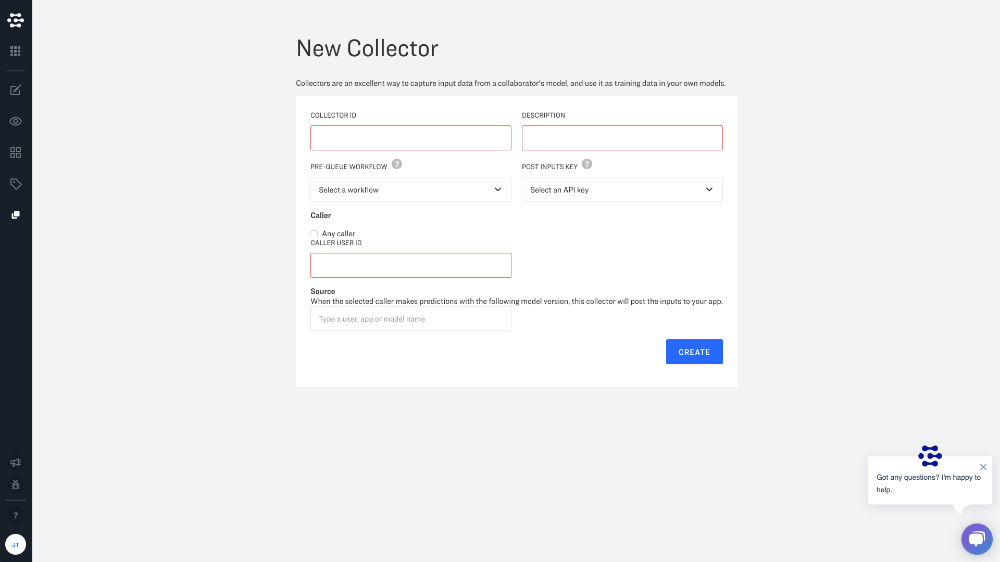
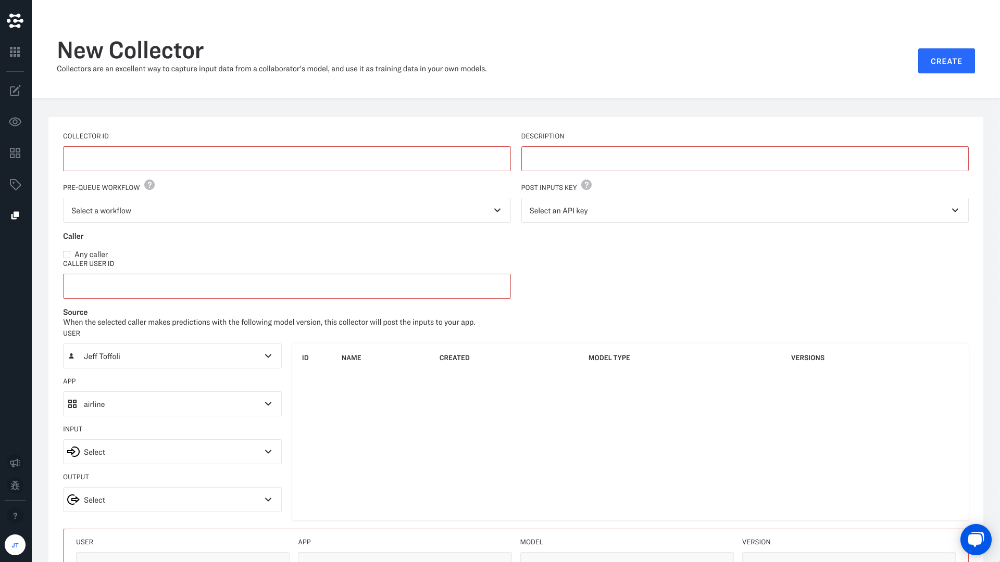
updates to images and copy

diff --git a/api-guide/collectors/collectors.md b/api-guide/collectors/collectors.md
@@ -1,24 +1,47 @@
 # Collectors
 
-The collector takes several parameters:
-- The collector's ID and description are of your own choosing.
-- The pre-queue workflow ID of the workflow to run inline in model predict calls.
-  It should only have very fast and light-weight models in it as it will effect the speed of the predictions being made.
-  This workflow's purpose is to filter down the inputs to queue for the collector to process.
-  The input to this workflow is going to be the OUTPUT of the model.
-  Optional, but at least one (pre-queue or post-queue) workflow ID is required.
-- The post-queue workflow ID of the workflow to run to after the collector is processing the queued input.
-  This workflow uses the original input to the model as input to the workflow so that you can run additional models as well on that input to decide whether to queue the model or not.
-  If the workflow output has any field that is non-empty then it will be passed on to POST /inputs to the destination app.
-  Optional, but at least one (pre-queue or post-queue) workflow ID is required.
-- The model ID, and its model version ID, should belong to the model from where you want to collect. When the user predicts an input against that model, the input is going to be collected.
-- The app ID and user ID where the model is located. If using a publicly available model, the model user and app ID should be `clarifai` and `main`, respectively. Otherwise the IDs should belong to the user who created the model.
-- An API key ID using which the inputs are is going to be added.
+Collectors capture input data for your app. They enable you to pipe in data from production models automatically, and are the key to unlocking many platform training capabilities like active learning. Collectors are available with Essential and Enterprise plans to help you manage data ingestion at scale.
 
-A possible pre-queue workflow would be one that does:
-1. random sampling (i.e. it collects a random subset of predicted inputs), then
-2. knowledge graph mapping from public General model concepts to a custom model, then
-2. concept thresholding.
+You can create app-level collectors to monitor specific models and specify sampling rules for triggering data ingestion.
+
+## Collector Parameters
+### Collector ID
+Give your collector a useful and descriptive name.
+
+### Description
+Provide additional details about your collector.
+
+### Pre-queue workflow
+
+In many scenarios, you will only want to ingest a sample, or subset of a given data source into your app. Pre-queue workflows allow you to pre-process your inputs so that you can sample and filter your new data before it is ever added to your app. Pre-queue workflows allow you to specify sampling rules for triggering data ingestion. Common pre-queue workflows are designed to:
+
+* Randomly sample inputs
+* Filter inputs by metadata
+* Filter inputs with a maximum probability below a given threshold
+* Filter inputs with a minimum probability above a given threshold
+* Filter specific concept probabilities above a given threshold
+* Knowledge graph mapping from public General model concepts to a custom model
+
+At least one (pre-queue or post-queue) workflow ID is required. The input to this workflow is going to be the OUTPUT of the model. We recommend that you use fast and light-weight models in it as it will effect the speed of the predictions being made.
+
+
+### Post Inputs key
+
+Select the API key that you would like to use to allow new inputs to be posted to your app. This is the post-queue workflow ID of the workflow to run to after the collector is processing the queued input. This API key must have the PostInputs scope, since it grants the collector the authority to POST inputs to your app.
+
+This workflow uses the original input to the model as input to the workflow so that you can run additional models as well on that input to decide whether to queue the model or not. If the workflow output has any field that is non-empty then it will be passed on to POST /inputs to the destination app. At least one (pre-queue or post-queue) workflow ID is required.
+
+### Caller
+
+Choose to only ingest inputs from a specified user, or anyone who posts new inputs to a model.  The user is referred to as the "caller" since they are making API calls as they post new inputs to their model. Just input the caller's user ID, or select "Any caller" to accept inputs from anyone posting new inputs to the model.
+
+
+### Source
+
+Select the model that you would like to collect from, and the collector will automatically post the new inputs to your app. Simply enter your model name, or model ID number. When the user predicts an input against this model, the input is going to be collected.
+
+The app ID and user ID where the model is located. If using a publicly available model, the model user and app ID should be `clarifai` and `main`, respectively. Otherwise the IDs should belong to the user who created the model. An API key ID using which the inputs are is going to be added.
+
 
 See also the [Auto Annotation walkthrough](https://docs.clarifai.com/api-guide/walkthroughs/auto-annotation-walkthrough).
 

diff --git a/portal-guide/collectors/collectors.md b/portal-guide/collectors/collectors.md
@@ -1,3 +1,5 @@
+# Collectors
+
 Collectors capture input data for your app. They enable you to pipe in data from production models automatically, and are the key to unlocking many platform training capabilities like active learning. Collectors are available with Essential and Enterprise plans to help you manage data ingestion at scale.
 
 You can create app-level collectors to monitor specific models and specify sampling rules for triggering data ingestion.
@@ -9,33 +11,38 @@ Collectors help you to feed your models with real-world training data. This data
 
 ![](../../images/create_new_collector.jpg)
 
+# Collectors
+
+Collectors capture input data for your app. They enable you to pipe in data from production models automatically, and are the key to unlocking many platform training capabilities like active learning. Collectors are available with Essential and Enterprise plans to help you manage data ingestion at scale.
+
+You can create app-level collectors to monitor specific models and specify sampling rules for triggering data ingestion.
+
+## Collector Parameters
 ### Collector ID
 Give your collector a useful and descriptive name.
 
 ### Description
-Provide additional details.
-
+Provide additional details about your collector.
 
 ### Pre-queue workflow
 
-Pre-queue workflows allow you to specify sampling rules for triggering data ingestion.
-
-In many scenarios, you will only want to ingest a sample, or subset of a given data source into your app. Pre-queue workflows allow you to pre-process your inputs so that you can sample and filter your new data before it is ever added to your app.
-
-Common pre-queue workflows are designed to:
+In many scenarios, you will only want to ingest a sample, or subset of a given data source into your app. Pre-queue workflows allow you to pre-process your inputs so that you can sample and filter your new data before it is ever added to your app. Pre-queue workflows allow you to specify sampling rules for triggering data ingestion. Common pre-queue workflows are designed to:
 
 * Randomly sample inputs
 * Filter inputs by metadata
 * Filter inputs with a maximum probability below a given threshold
 * Filter inputs with a minimum probability above a given threshold
 * Filter specific concept probabilities above a given threshold
+* Knowledge graph mapping from public General model concepts to a custom model
 
+At least one (pre-queue or post-queue) workflow ID is required. The input to this workflow is going to be the OUTPUT of the model. We recommend that you use fast and light-weight models in it as it will effect the speed of the predictions being made.
 
 
 ### Post Inputs key
 
-Select the API key that you would like to use to allow new inputs to be posted to your app. This API key must have the PostInputs scope, since it grants the collector the authority to POST inputs to your app.
+Select the API key that you would like to use to allow new inputs to be posted to your app. This is the post-queue workflow ID of the workflow to run to after the collector is processing the queued input. This API key must have the PostInputs scope, since it grants the collector the authority to POST inputs to your app.
 
+This workflow uses the original input to the model as input to the workflow so that you can run additional models as well on that input to decide whether to queue the model or not. If the workflow output has any field that is non-empty then it will be passed on to POST /inputs to the destination app. At least one (pre-queue or post-queue) workflow ID is required.
 
 ### Caller
 
@@ -44,4 +51,6 @@ Choose to only ingest inputs from a specified user, or anyone who posts new inpu
 
 ### Source
 
-Select the model that you would like to collect from, and the collector will automatically post the new inputs to your app. Simply enter your model name, or model ID number. You can select the model that you would like to collect from in the drop down menu.
+Select the model that you would like to collect from, and the collector will automatically post the new inputs to your app. Simply enter your model name, or model ID number. You can select the model that you would like to collect from in the drop down menu. When the user predicts an input against this model, the input is going to be collected.
+
+The app ID and user ID where the model is located. If using a publicly available model, the model user and app ID should be `clarifai` and `main`, respectively. Otherwise the IDs should belong to the user who created the model. An API key ID using which the inputs are is going to be added.

diff --git a/portal-guide/annotate/create-a-task.md b/portal-guide/annotate/create-a-task.md
@@ -2,33 +2,37 @@
 
 Tasks enable you delegate labeling jobs to your team.
 
-## Task types
+![](../../images/task_overview.jpg)
+
+## Task Name and Instructions
+
+Provide your task with a descriptive name and provide instructions for your labelers. You can even provide you labelers with a "visual dictionary" by including sample image URLs.
+
+## Task Types
 
 Choose the type of label that you would like your worker to add to your images or video. You can choose classification, bounding box detection, polygon detection label types.
 
 Please note that if you want to create a detection labeling task, you will need to select a detection model as the base workflow in your app.
 
+## Applicable Concepts
 
-## Input sources
+Concepts are the words that you are labeling your data with. Concepts can be anything you can think of, and can be written in the language of your choice. You can create concepts in Portal, or you can create them when assigning tasks. Check the "Select all concepts" box to automatically add all available concepts to your app.
+
+## Input Sources
 
 You can choose "All inputs", which will include all inputs from your dataset, or you can choose any one of your [Saved Searches](https://docs.clarifai.com/v/v6.1/portal-guide/psearch/psaved_searches).
 
 By saving your searches, you can slice and dice your dataset, and configure dynamic and static types of datasets. You can also create highly customized filters to your data, by adding metadata and searching by metadata filtering.
 
-## Applicable concepts
-
-Concepts are the words that you are labeling your data with. Concepts can be anything you can think of, and can be written in the language of your choice. You can create concepts in Portal, or you can create them when assigning tasks.
-
-
-## Worker strategy
-
-Manually assign work to a specific person, or have work randomly assigned to workers from a group of collaborators.
-
 ## Workers
 
 You can assign work to a worker, or group of workers. Simply add the worker email addresses and workers will receive an email notification and a new task will be added to their "Assigned to Me" tab.
 
-## Review strategy
+## Worker Strategy
+
+Manually assign work to a specific person, or have work randomly assigned to workers from a group of collaborators. By selecting "Full", all inputs will be assigned to each worker. By selecting "Partition" you will be able to break up your labeling task amongst your workers.
+
+## Review Strategy
 ### None
 
 All labels will be automatically marked with a "Success" status and can be immediately used to train your new model.
@@ -41,7 +45,7 @@ Labels will be marked with a "Pending Review" status until the assigned reviewer
 
 Consensus review will mark labels with "Success" status in cases where multiple reviewers provide the same label.
 
-## Sample size to select for manual review
+## Sample Size to Select for Manual Review
 
 You can choose to review all or part of a workers labels. Simply adjust the slider, and you will review a random subset of their labeled images. For example, if a worker is labeling 10,000 images, you might choose to review 1% of them for quality control.
 
@@ -49,7 +53,7 @@ You can choose to review all or part of a workers labels. Simply adjust the slid
 
 You assign reviewers by adding their email. Assigned review tasks will show up in the "For Review" tab.
 
-## Enable workflow predictions
+## Enable AI Assist
 
 Enable AI-assisted workflow predictions in your labeling project. You must first create a workflow with a custom model to enable predictions.
 

diff --git a/portal-guide/annotate/labeling-tools.md b/portal-guide/annotate/labeling-tools.md
@@ -2,6 +2,8 @@
 
 Labeler provides special tools for working with images and video.
 
+![](../../images/label_bounding_box.jpg)
+
 ## Images
 
 ### Brightness, saturation and color inversion
@@ -12,20 +14,29 @@ Labeler provides special tools for working with images and video.
 
 You can enhance the visibility of your photos with image adjustments. Image adjustments can be combined. Just click reset to return to the original version of your input.
 
-### Image Keyboard shortcuts
-
-![](../../images/keyboard_shortcuts.jpg)
-#### B - Brightness
-#### S - Saturation
-#### I - Inversion
-
-
 ### Zoom and pan
 
 ![](../../images/zoom.jpg)
 ![](../../images/pan.jpg)
 
 Powerful zoom and panning features allow you to closely inspect specific regions of an image. Just click reset to return to 100% zoom.
+
+
+## Shortcuts
+
+![](../../images/shortcuts.jpg)
+
+### General Keyboard shortcuts
+
+* Left arrow - Previous input
+* Right arrow - Next input
+* Enter - Submit label
+
+### Image Keyboard shortcuts
+
+* B - Brightness
+* S - Saturation
+* I - Inversion
 
 
 ## Video
@@ -39,16 +50,7 @@ Interpolation allows you to quickly label multiple frames of video with the same
 
 ### Video Keyboard shortcuts
 
-![](../../images/keyboard_shortcuts.jpg)
-#### Q - Start of video
-#### W - Scrub backward
-#### E - Scrub forward
-#### R - End of video
-
-
-### General Keyboard shortcuts
-
-![](../../images/keyboard_shortcuts.jpg)
-#### Left arrow - Previous input
-#### Right arrow - Next input
-#### Enter - Submit label
+* Q - Start of video
+* W - Scrub backward
+* E - Scrub forward
+* R - End of video

diff --git a/product-updates/changelog.md b/product-updates/changelog.md
@@ -1,5 +1,19 @@
 # Changelog
 
+## Changelog 6.6
+
+| New Feature | Improvement | Bug Fix | Enterprise Only |
+| :---: | :---: | :---: | :---: |
+| ![](../.gitbook/assets/new_feature%20%2852%29.jpg) | ![](../.gitbook/assets/improvement%20%2883%29.jpg) | ![](../.gitbook/assets/bug%20%28248%29.jpg) | ![](../.gitbook/assets/enterprise%20%2810%29.jpg) |
+
+
+
+
+
+
+
+# Changelog
+
 ## Changelog 6.5
 
 | New Feature | Improvement | Bug Fix | Enterprise Only |
@@ -797,4 +811,3 @@
 | ![](../.gitbook/assets/bug%20%28248%29.jpg) | Portal not showing the correct number of results in concept search. Fixed. |
 | ![](../.gitbook/assets/bug%20%28248%29.jpg) | Left/right arrows in single image view don't switch between images with regions. Fixed |
 | ![](../.gitbook/assets/bug%20%28248%29.jpg) | Fixed carousel thumbnail clicks wiping query params / trigger new search |
-

diff --git a/portal-guide/annotate/label-types.md b/portal-guide/annotate/label-types.md
@@ -12,10 +12,16 @@ Provide annotation for an entire image, or single frame of video. To classify an
 
 Provide annotation within a single box-shaped region of an image or video. To use bounding box detection, you must start with a workflow that offers detection capabilities. From here you can label detected regions, or draw your own bounding boxes for labeling.
 
+### Detection for Still Images
+
 ![Bounding box detection for still image](../../images/detector_label.jpg)
+
+### Detection for Video
 
 ![Bounding box detection for video](../../images/video_detector.jpg)
 
-## Polygon Detection (Coming Soon!)
+## Polygon Detection
 
 Provide annotation within any polygon-shaped region of an image or video.
+
+![](../../images/polygon.jpg)

diff --git a/portal-guide/annotate/workforce-management.md b/portal-guide/annotate/workforce-management.md
@@ -1,8 +1,8 @@
-# Workforce Management
+# Task Administration & Workforce Management
 
 Labeler provides a variety of workforce management tools that help your company to distribute and manage labeling tasks. In labeling mode, you can view all related tasks, activities and statistics for your application.
 
-![](../../images/workforce_management.jpg)
+![](../../images/review.jpg)
 
 ## All tasks
 
@@ -18,8 +18,7 @@ A listing of all tasks to be reviewed by the current user of the app.
 
 ## Stats
 
-Stats provide performance metrics for your team
-
+Stats provide performance metrics for your team.
 
 **Select time** - Choose the time interval that you would like to use to measure performance (hour, day, week, month, year)
 

diff --git a/portal-guide/collectors/README.md b/portal-guide/collectors/README.md
@@ -1,0 +1,7 @@
+# Collectors
+
+Collectors are an excellent way to capture input data from a collaborator's model, and use it as training data in your own models.
+
+{% hint style="info" %}
+For step-by-step guides, visit Portal [Walkthroughs](../walkthroughs).
+{% endhint %}
